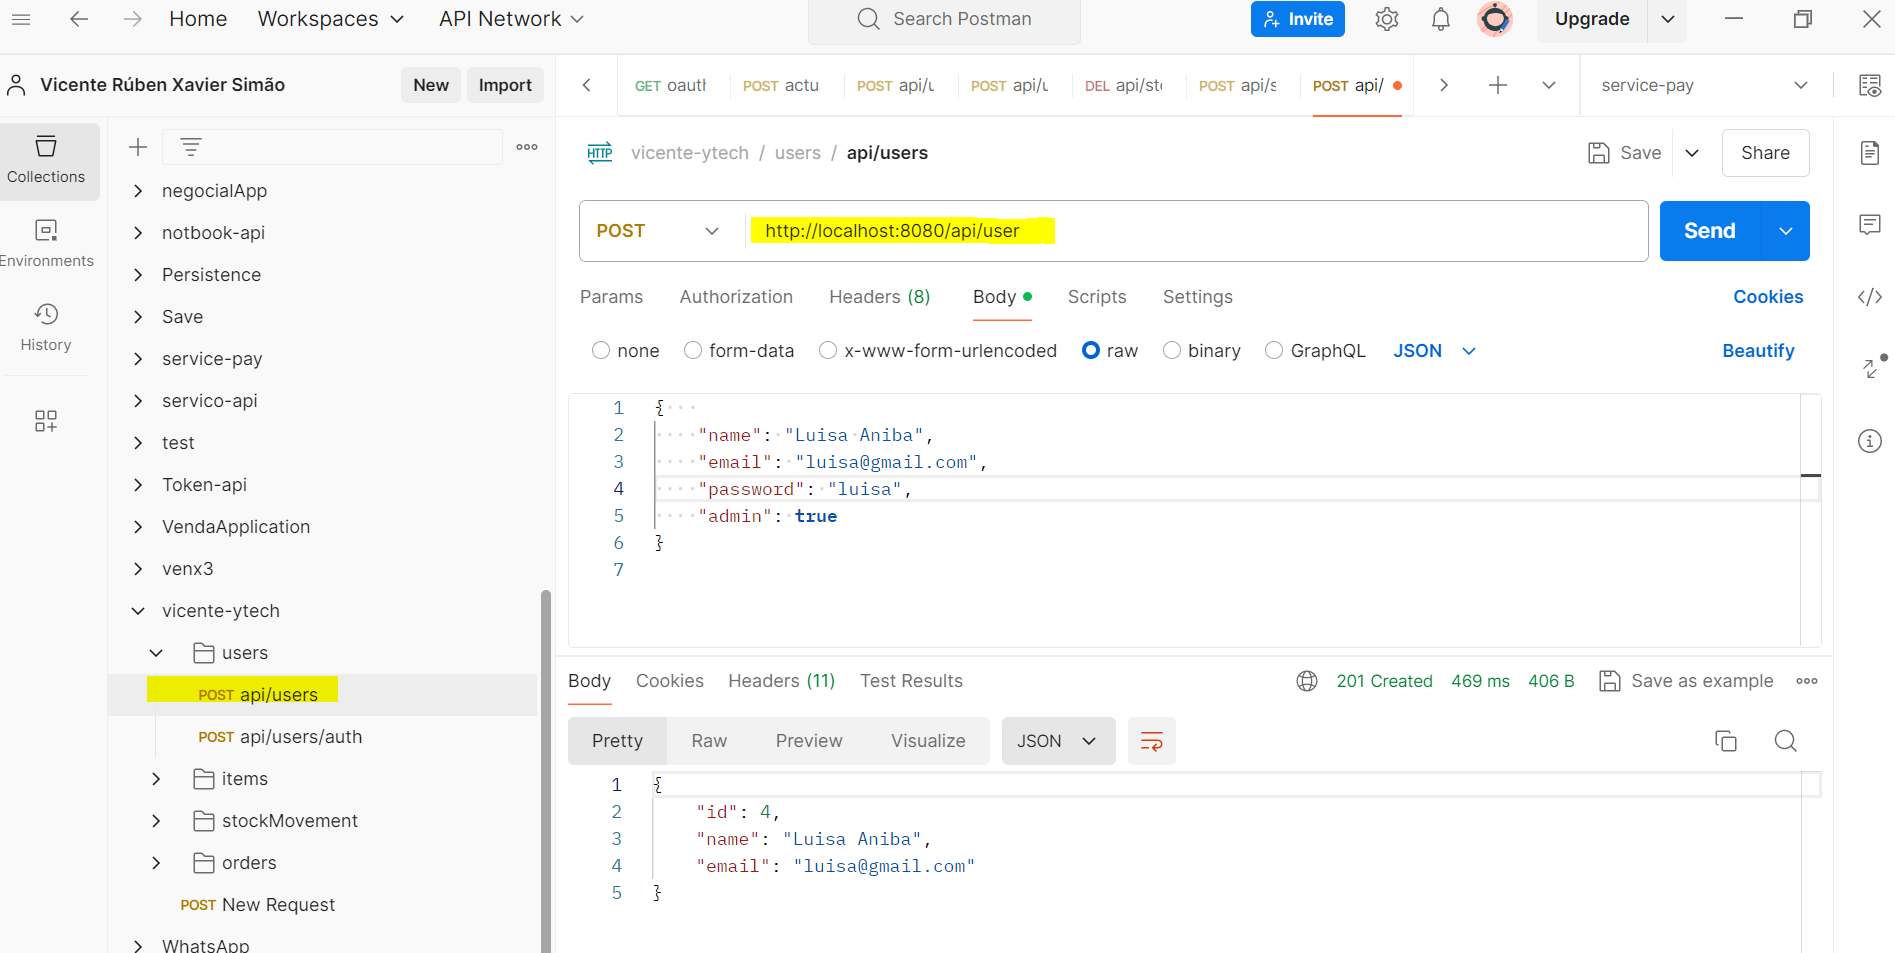
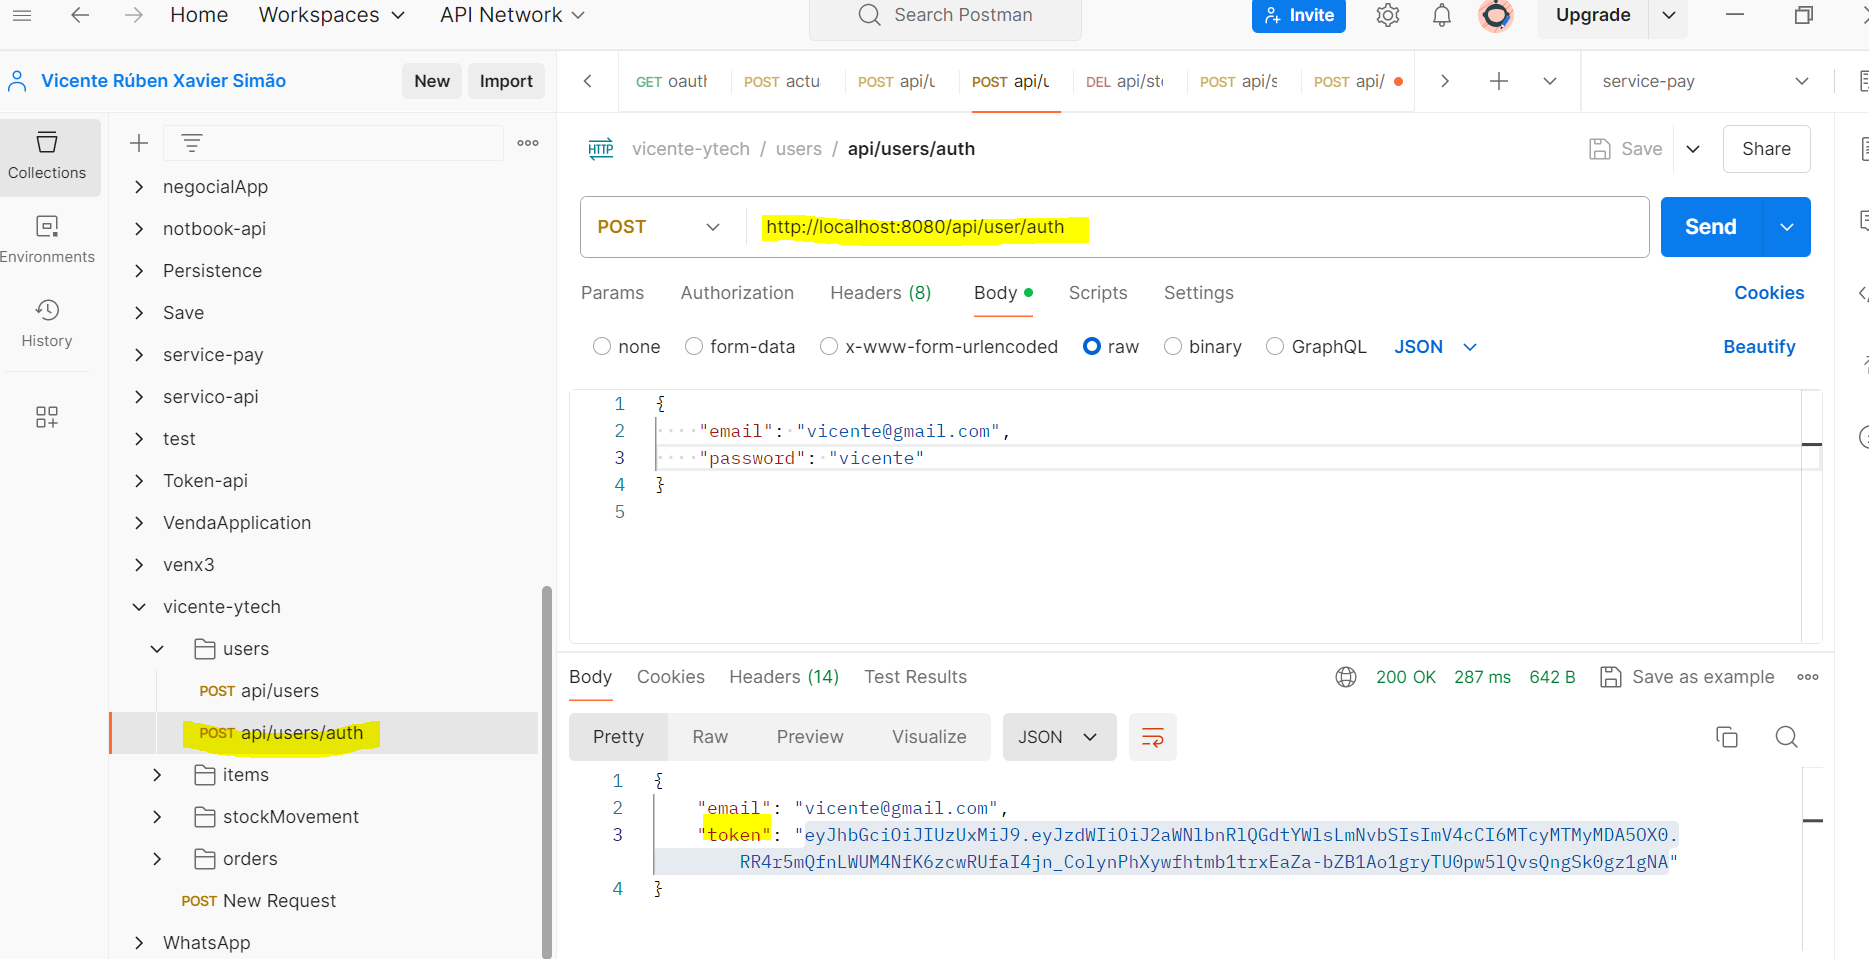
Image changed

diff --git a/README.md b/README.md
@@ -7,7 +7,7 @@ This project was with `Spring Boot version 2.7.16, Spring Security, Token JWT` a
 
 ### Development server
  
-Navegate to the inside `/vicente-ytech` folder. Open your terminal and run this command do create
+Navegate inside `/vicente-ytech` folder. Open your terminal and run this command do create
 a `jar` file. <br/> 
 
 Execute the jar file by running `java -jar ./target/vicente-ytech-0.0.1-SNAPSHOT.jar` then open your browser `http://localhost:8080/api/`. <br/>
@@ -27,6 +27,10 @@ Open your Postman Application, go to `import -> upload files` or `import -> sele
 
 `Authenticate account`
 ![alt text](https://github.com/Vicente-jpro/vicente-ytech/blob/main/images/authenticate_account.PNG) <br/>
+
+<br/>
+After getting `token` , copy it. In Postman go to `Authorization` , select `Bearer Token` and past the  `token` to the feild.
+
 
 `Pesquisa de servicos`
 ![alt text](https://github.com/Vicente-jpro/cliente-front-end/blob/master/src/assets/img-projects/prestacao-servico-search.png)
